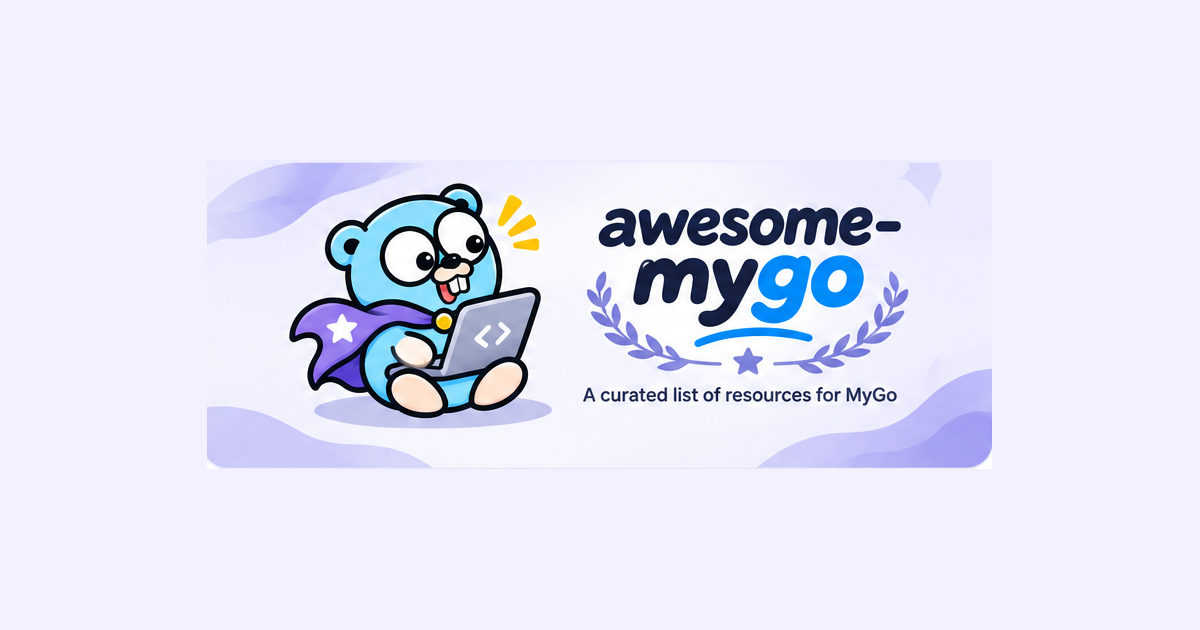
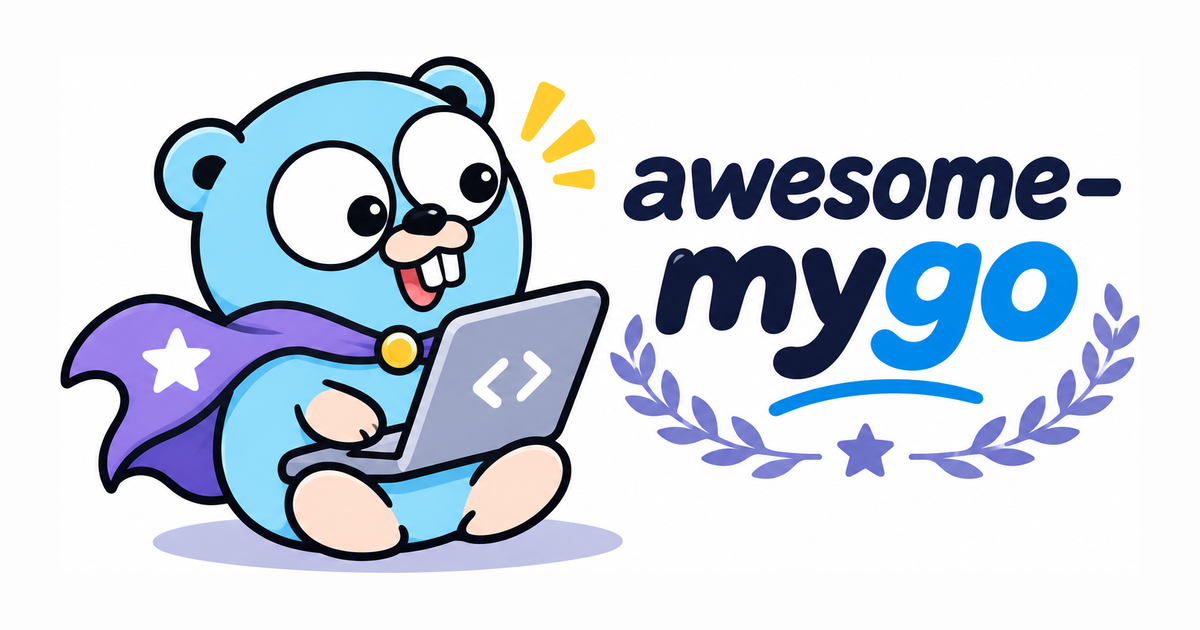
feat(web): rename the site to Awesome MyGo
The site is now Awesome MyGo, matching the repository: the header (Awesome in white, MyGo in cyan), the footer, every page title and the JSON-LD site name, the web manifest, the package descriptions, the five READMEs and the UI copy in all five languages. Korean takes 는 instead of 은 after the new name. The domain stays mygodock.dev.

The social preview showed a small card on a wide lavender canvas, a background inside a background. It is now the brand artwork from the original logo, full-bleed on its own background.

The retro theme switch in the header is now an icon-only square like the GitHub button, and below 1240px the search button drops its label and the header gaps tighten. Together with the longer name, the labelled switch had pushed Japanese at 1440px and English at 1024px onto a second row.

diff --git a/apps/web/src/components/Header.tsx b/apps/web/src/components/Header.tsx
@@ -53,7 +53,7 @@ export function Header({ scrolled }: { scrolled: boolean }) {
 				<Link to='/' aria-label={t.a_home} className='brand'>
 					<Logo />
 					<span className='brand-name'>
-						MyGo <span className='c-cyan'>Dock</span>
+						Awesome <span className='c-cyan'>MyGo</span>
 					</span>
 				</Link>
 				<nav id='sitenav' className='navwrap' data-open={menu} aria-label={t.a_cats}>
@@ -102,13 +102,12 @@ export function Header({ scrolled }: { scrolled: boolean }) {
 							))}
 						</div>
 					</div>
-					{/* Shares the search button's look, including hiding its label on narrow screens, without the search button's minimum width. */}
-					<button type='button' className='btn-g sbtn' style={{ minWidth: 0 }} onClick={() => switchTheme('retro')} aria-label={`${t.a_theme}: ${t.theme_retro}`}>
+					{/* Icon only, in the GitHub button's square frame: with a label the header ran onto a second row in Japanese at 1440px. The name is in aria-label and the tooltip. */}
+					<button type='button' className='btn-g gh-btn' onClick={() => switchTheme('retro')} aria-label={`${t.a_theme}: ${t.theme_retro}`} title={t.theme_retro}>
 						<svg aria-hidden='true' width='16' height='16' viewBox='0 0 24 24' fill='none' stroke='currentColor' strokeWidth='2' strokeLinecap='square'>
 							<rect x='3' y='4' width='18' height='13' />
 							<path d='M8 21h8M12 17v4M7 8h4' />
 						</svg>
-						<span className='lbl'>{t.theme_retro}</span>
 					</button>
 					{/* The site's own repository; "GitHub" reads the same in every language, so it needs no translation. */}
 					<a className='btn-g gh-btn' href={SITE_REPO} target='_blank' rel='noopener' aria-label='GitHub' title='GitHub'>

diff --git a/apps/web/src/lib/seo.ts b/apps/web/src/lib/seo.ts
@@ -2,10 +2,10 @@ import { type App, APPS, DEFAULT_LANG, LANGS, type LangCode, SITE_URL, type Stri
 import type { MetaDescriptor } from '@tanstack/react-router';
 import type { JSX } from 'react';
 
-export const SITE_NAME = 'MyGo Dock';
+export const SITE_NAME = 'Awesome MyGo';
 const OG_IMAGE = `${SITE_URL}/og-image-1200x630.png`;
 const OG_LOCALE: Record<LangCode, string> = { 'zh-CN': 'zh_CN', 'zh-TW': 'zh_TW', en: 'en_US', ja: 'ja_JP', ko: 'ko_KR' };
-// The site as every page's JSON-LD names it. Google resolves an @id only within one page, so the other pages embed this node in isPartOf instead of pointing at the home page's. There is no publisher Organization: the owner, yldm-tech, has no site or logo of its own to describe it with, and the MyGo Dock mark belongs to the site, not to an organization.
+// The site as every page's JSON-LD names it. Google resolves an @id only within one page, so the other pages embed this node in isPartOf instead of pointing at the home page's. There is no publisher Organization: the owner, yldm-tech, has no site or logo of its own to describe it with, and the Awesome MyGo mark belongs to the site, not to an organization.
 const WEBSITE = { '@type': 'WebSite', '@id': `${SITE_URL}/#website`, name: SITE_NAME, url: `${SITE_URL}/` };
 
 export type SitePath = '/' | '/ui' | '/state' | '/plugins' | '/showcase' | '/learn';

diff --git a/apps/web/src/styles.css b/apps/web/src/styles.css
@@ -633,7 +633,7 @@ html:lang(ko) .site {
 .lang {
 	position: relative;
 }
-/* Square, in the language button's frame. */
+/* Square, in the language button's frame: the GitHub link and the retro theme switch. */
 .gh-btn {
 	display: flex;
 	align-items: center;
@@ -2582,8 +2582,11 @@ button.btn-pr:disabled {
 }
 
 /* ---- responsive (from the design) ---- */
-/* Between the burger breakpoint and 1200px the nav and the header actions share one row; the search button drops its label there, so the GitHub button fits without wrapping English or Japanese onto a second row. */
-@media (max-width: 1200px) {
+/* Between the burger breakpoint and 1240px the brand, the nav and the header actions share one row; the search button drops its label and the gaps tighten there, so English and Japanese still fit one row down to 1100px. */
+@media (max-width: 1240px) {
+	.hdr-in {
+		column-gap: 14px;
+	}
 	.sbtn {
 		min-width: 0;
 	}

diff --git a/apps/web/src/retro/RetroApp.tsx b/apps/web/src/retro/RetroApp.tsx
@@ -127,7 +127,7 @@ function MenuBar() {
 		<header className='sticky top-0 z-40 flex h-[30px] items-stretch gap-0.5 border-b border-ink bg-paper px-2.5 shadow-[inset_0_1px_0_var(--color-hi)]'>
 			<Link to='/' aria-label={t.a_home} className='flex items-center gap-2 pr-2.5 pl-1 no-underline hover:bg-ink hover:text-paper'>
 				<img src='/icon-32.png' srcSet='/icon-32.png 1x, /icon-192.png 2x' width={20} height={20} alt='' className='size-5 border border-ink' />
-				<span className='hidden whitespace-nowrap min-[480px]:inline'>MyGo Dock</span>
+				<span className='hidden whitespace-nowrap min-[480px]:inline'>Awesome MyGo</span>
 			</Link>
 			<nav aria-label={t.a_cats} className='hidden desk:flex'>
 				{NAV.map((n) => (

diff --git a/packages/catalog/src/catalog.test.ts b/packages/catalog/src/catalog.test.ts
@@ -316,8 +316,8 @@ describe('search snippets', () => {
 		for (const [title] of PAGES) {
 			for (const L of LANGS) {
 				const topic = LOCALES[L.code][title];
-				const full = title === 'title_home' ? topic : `${topic} · MyGo Dock`;
-				if (title === 'title_home') expect(full.startsWith('MyGo Dock · '), `${title} ${L.code}`).toBe(true);
+				const full = title === 'title_home' ? topic : `${topic} · Awesome MyGo`;
+				if (title === 'title_home') expect(full.startsWith('Awesome MyGo · '), `${title} ${L.code}`).toBe(true);
 				expect(width(full), `${title} ${L.code}: ${full}`).toBeLessThanOrEqual(64);
 			}
 		}

diff --git a/apps/web/src/retro/pages/Showcase.tsx b/apps/web/src/retro/pages/Showcase.tsx
@@ -48,7 +48,7 @@ export function Showcase() {
 				<div className='flex flex-wrap items-center gap-x-3 gap-y-2 px-1.5 pt-[5px] pb-[7px]'>
 					<nav aria-label={t.a_crumbs} className='hidden whitespace-nowrap desk:block'>
 						<Link to='/' className={lnk}>
-							MyGo Dock
+							Awesome MyGo
 						</Link>{' '}
 						<span aria-hidden='true'>▸</span> {t.cat_show_name}
 					</nav>

diff --git a/apps/web/src/components/Chrome.tsx b/apps/web/src/components/Chrome.tsx
@@ -11,7 +11,7 @@ export function Footer() {
 		<footer className='ftr'>
 			<div className='ftr-in'>
 				<span aria-hidden='true' className='ftr-mark'>
-					MyGo Dock
+					Awesome MyGo
 				</span>
 				<nav aria-label={t.a_site_nav} className='ftr-nav'>
 					{NAV.map((n) => (

diff --git a/README.md b/README.md
@@ -1,4 +1,4 @@
-# MyGo Dock
+# Awesome MyGo
 
 [![Website](https://img.shields.io/badge/website-mygodock.dev-3fd3f5)](https://mygodock.dev)
 [![CI](https://github.com/yldm-tech/awesome-mygo/actions/workflows/ci.yml/badge.svg)](https://github.com/yldm-tech/awesome-mygo/actions/workflows/ci.yml)
@@ -8,7 +8,7 @@ The apps, plugins, components and guides around [MyGo](https://github.com/egoist
 
 English · [简体中文](README.zh-CN.md) · [繁體中文](README.zh-TW.md) · [日本語](README.ja.md) · [한국어](README.ko.md)
 
-[![MyGo Dock](.github/assets/banner.png)](https://mygodock.dev)
+[![Awesome MyGo](.github/assets/banner.png)](https://mygodock.dev)
 
 ## What is on the site
 

diff --git a/README.ja.md b/README.ja.md
@@ -1,4 +1,4 @@
-# MyGo Dock
+# Awesome MyGo
 
 [![Website](https://img.shields.io/badge/website-mygodock.dev-3fd3f5)](https://mygodock.dev)
 [![CI](https://github.com/yldm-tech/awesome-mygo/actions/workflows/ci.yml/badge.svg)](https://github.com/yldm-tech/awesome-mygo/actions/workflows/ci.yml)
@@ -8,7 +8,7 @@
 
 [English](README.md) · [简体中文](README.zh-CN.md) · [繁體中文](README.zh-TW.md) · 日本語 · [한국어](README.ko.md)
 
-[![MyGo Dock](.github/assets/banner.png)](https://mygodock.dev)
+[![Awesome MyGo](.github/assets/banner.png)](https://mygodock.dev)
 
 ## サイトの内容
 

diff --git a/README.ko.md b/README.ko.md
@@ -1,4 +1,4 @@
-# MyGo Dock
+# Awesome MyGo
 
 [![Website](https://img.shields.io/badge/website-mygodock.dev-3fd3f5)](https://mygodock.dev)
 [![CI](https://github.com/yldm-tech/awesome-mygo/actions/workflows/ci.yml/badge.svg)](https://github.com/yldm-tech/awesome-mygo/actions/workflows/ci.yml)
@@ -8,7 +8,7 @@
 
 [English](README.md) · [简体中文](README.zh-CN.md) · [繁體中文](README.zh-TW.md) · [日本語](README.ja.md) · 한국어
 
-[![MyGo Dock](.github/assets/banner.png)](https://mygodock.dev)
+[![Awesome MyGo](.github/assets/banner.png)](https://mygodock.dev)
 
 ## 사이트 내용
 

diff --git a/README.zh-CN.md b/README.zh-CN.md
@@ -1,4 +1,4 @@
-# MyGo Dock
+# Awesome MyGo
 
 [![Website](https://img.shields.io/badge/website-mygodock.dev-3fd3f5)](https://mygodock.dev)
 [![CI](https://github.com/yldm-tech/awesome-mygo/actions/workflows/ci.yml/badge.svg)](https://github.com/yldm-tech/awesome-mygo/actions/workflows/ci.yml)
@@ -8,7 +8,7 @@
 
 [English](README.md) · 简体中文 · [繁體中文](README.zh-TW.md) · [日本語](README.ja.md) · [한국어](README.ko.md)
 
-[![MyGo Dock](.github/assets/banner.png)](https://mygodock.dev)
+[![Awesome MyGo](.github/assets/banner.png)](https://mygodock.dev)
 
 ## 站点内容
 

diff --git a/README.zh-TW.md b/README.zh-TW.md
@@ -1,4 +1,4 @@
-# MyGo Dock
+# Awesome MyGo
 
 [![Website](https://img.shields.io/badge/website-mygodock.dev-3fd3f5)](https://mygodock.dev)
 [![CI](https://github.com/yldm-tech/awesome-mygo/actions/workflows/ci.yml/badge.svg)](https://github.com/yldm-tech/awesome-mygo/actions/workflows/ci.yml)
@@ -8,7 +8,7 @@
 
 [English](README.md) · [简体中文](README.zh-CN.md) · 繁體中文 · [日本語](README.ja.md) · [한국어](README.ko.md)
 
-[![MyGo Dock](.github/assets/banner.png)](https://mygodock.dev)
+[![Awesome MyGo](.github/assets/banner.png)](https://mygodock.dev)
 
 ## 網站內容
 
